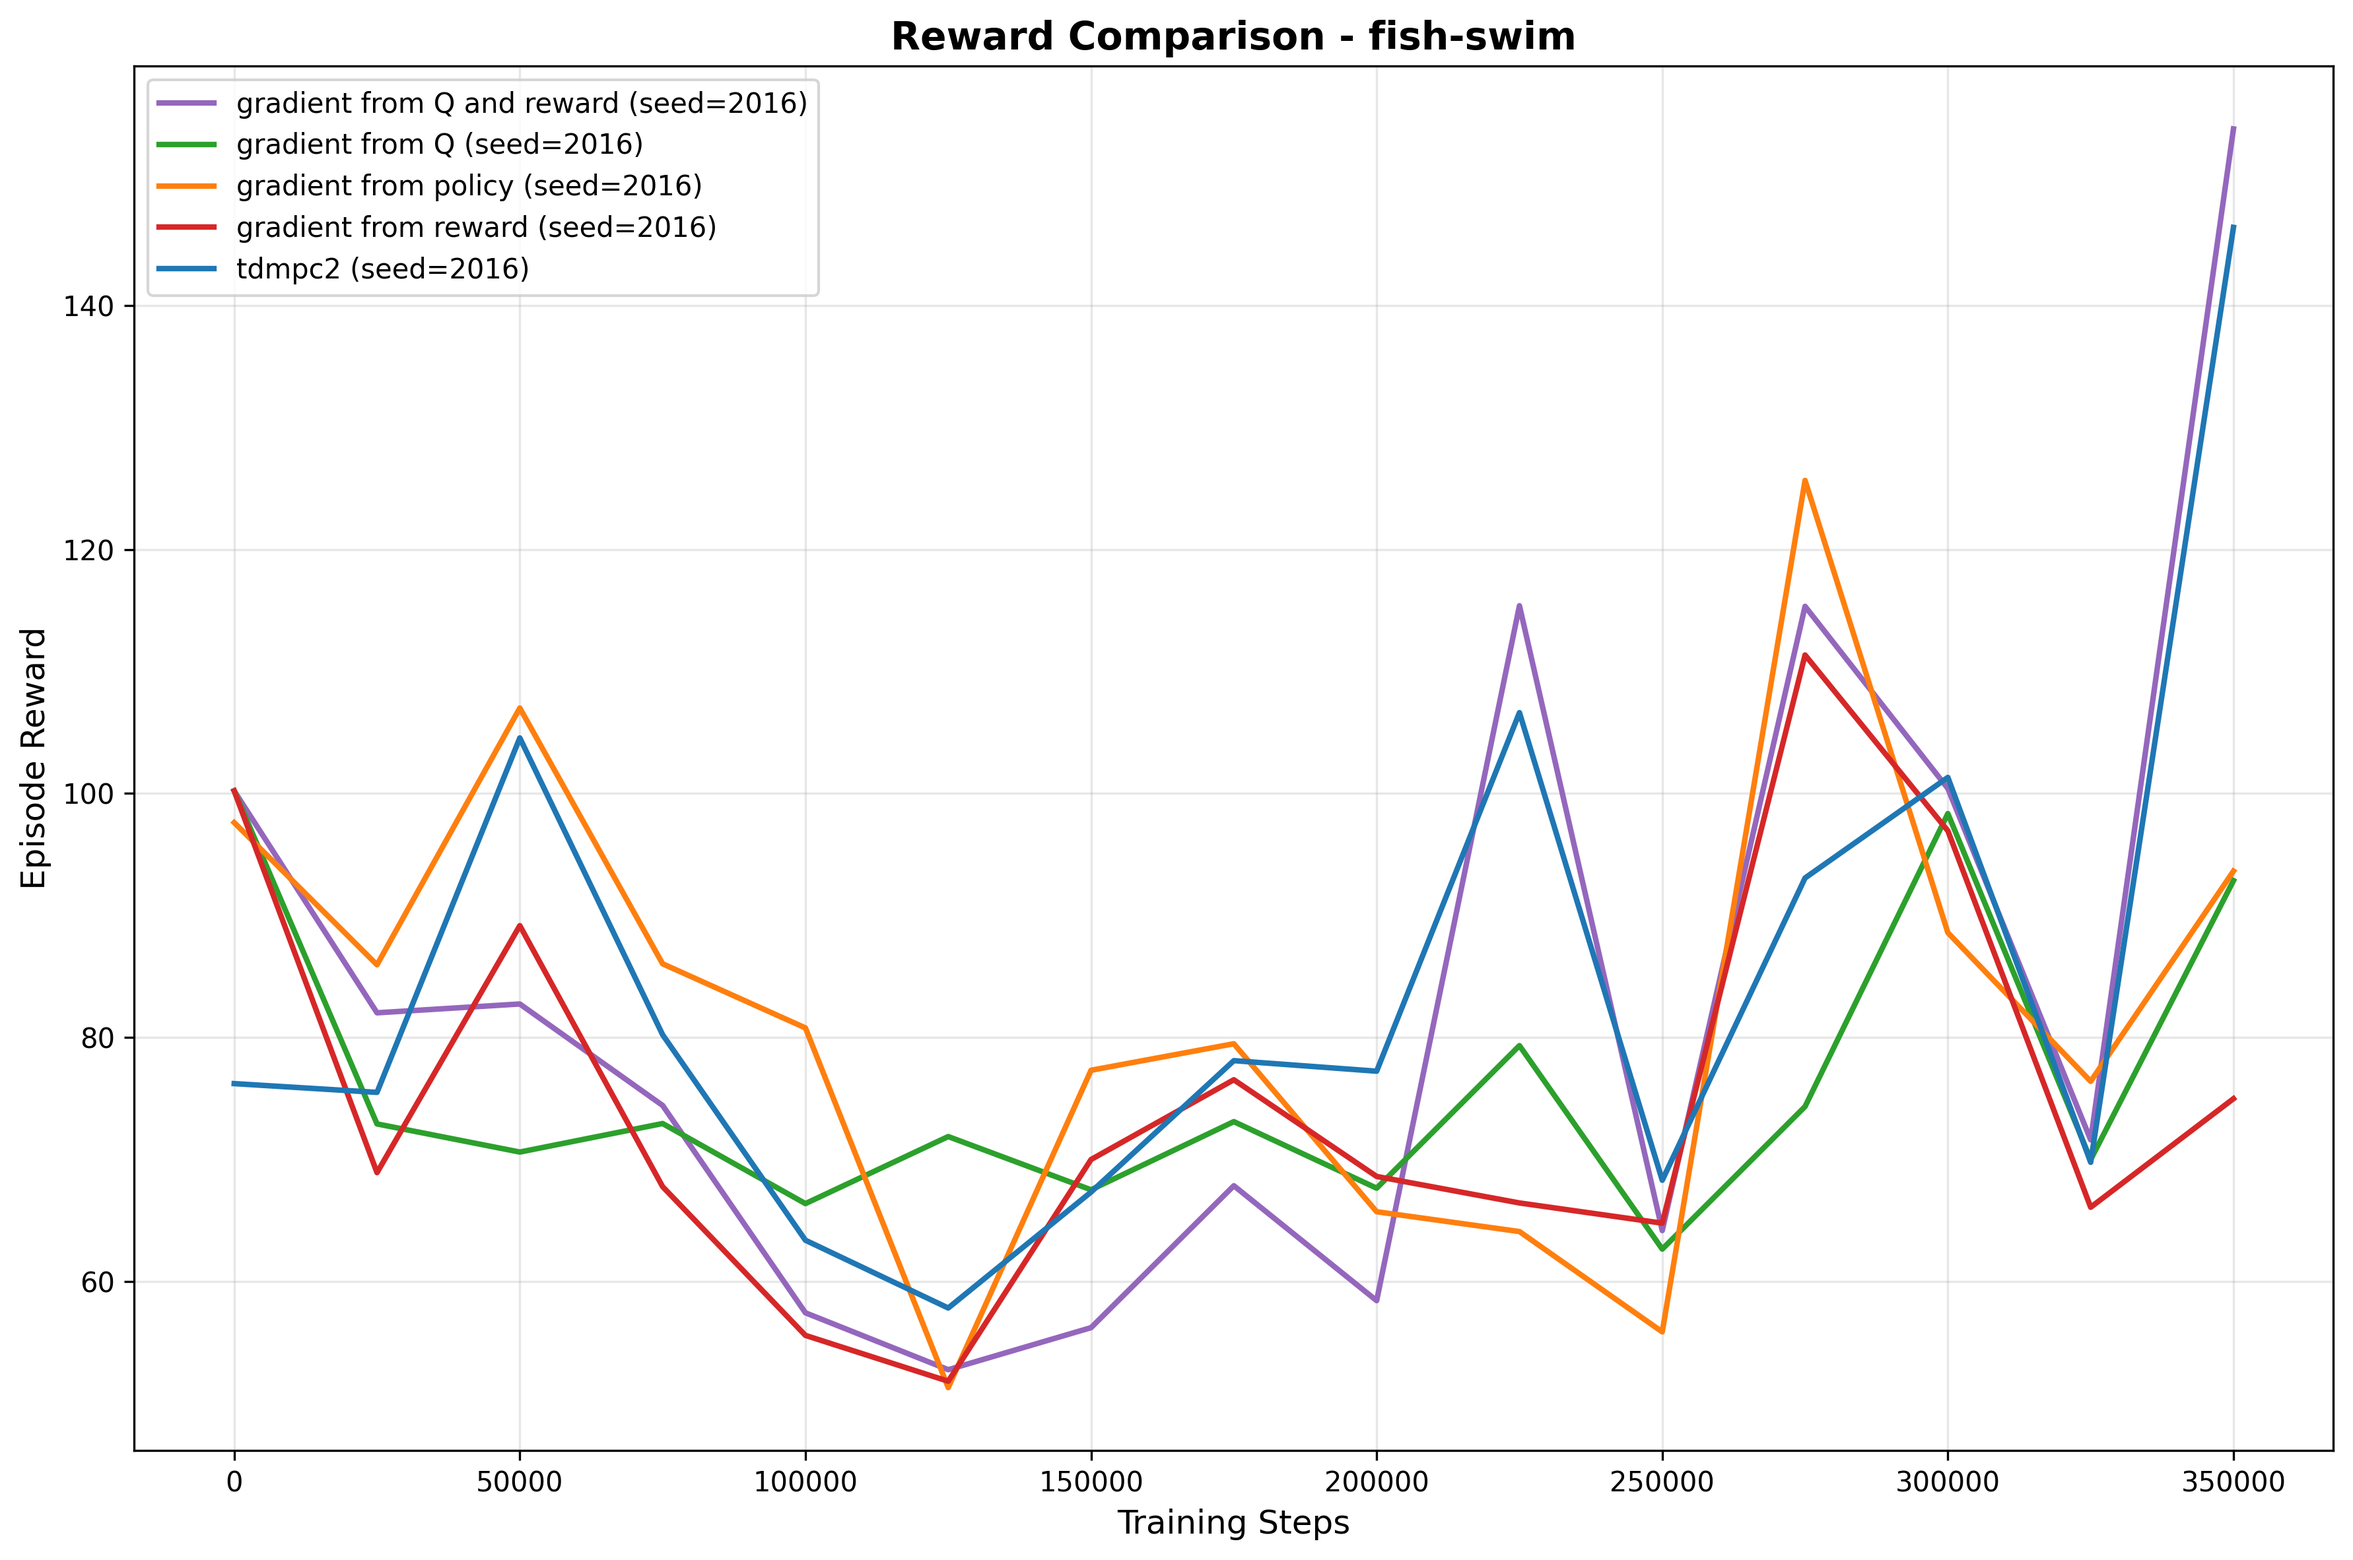
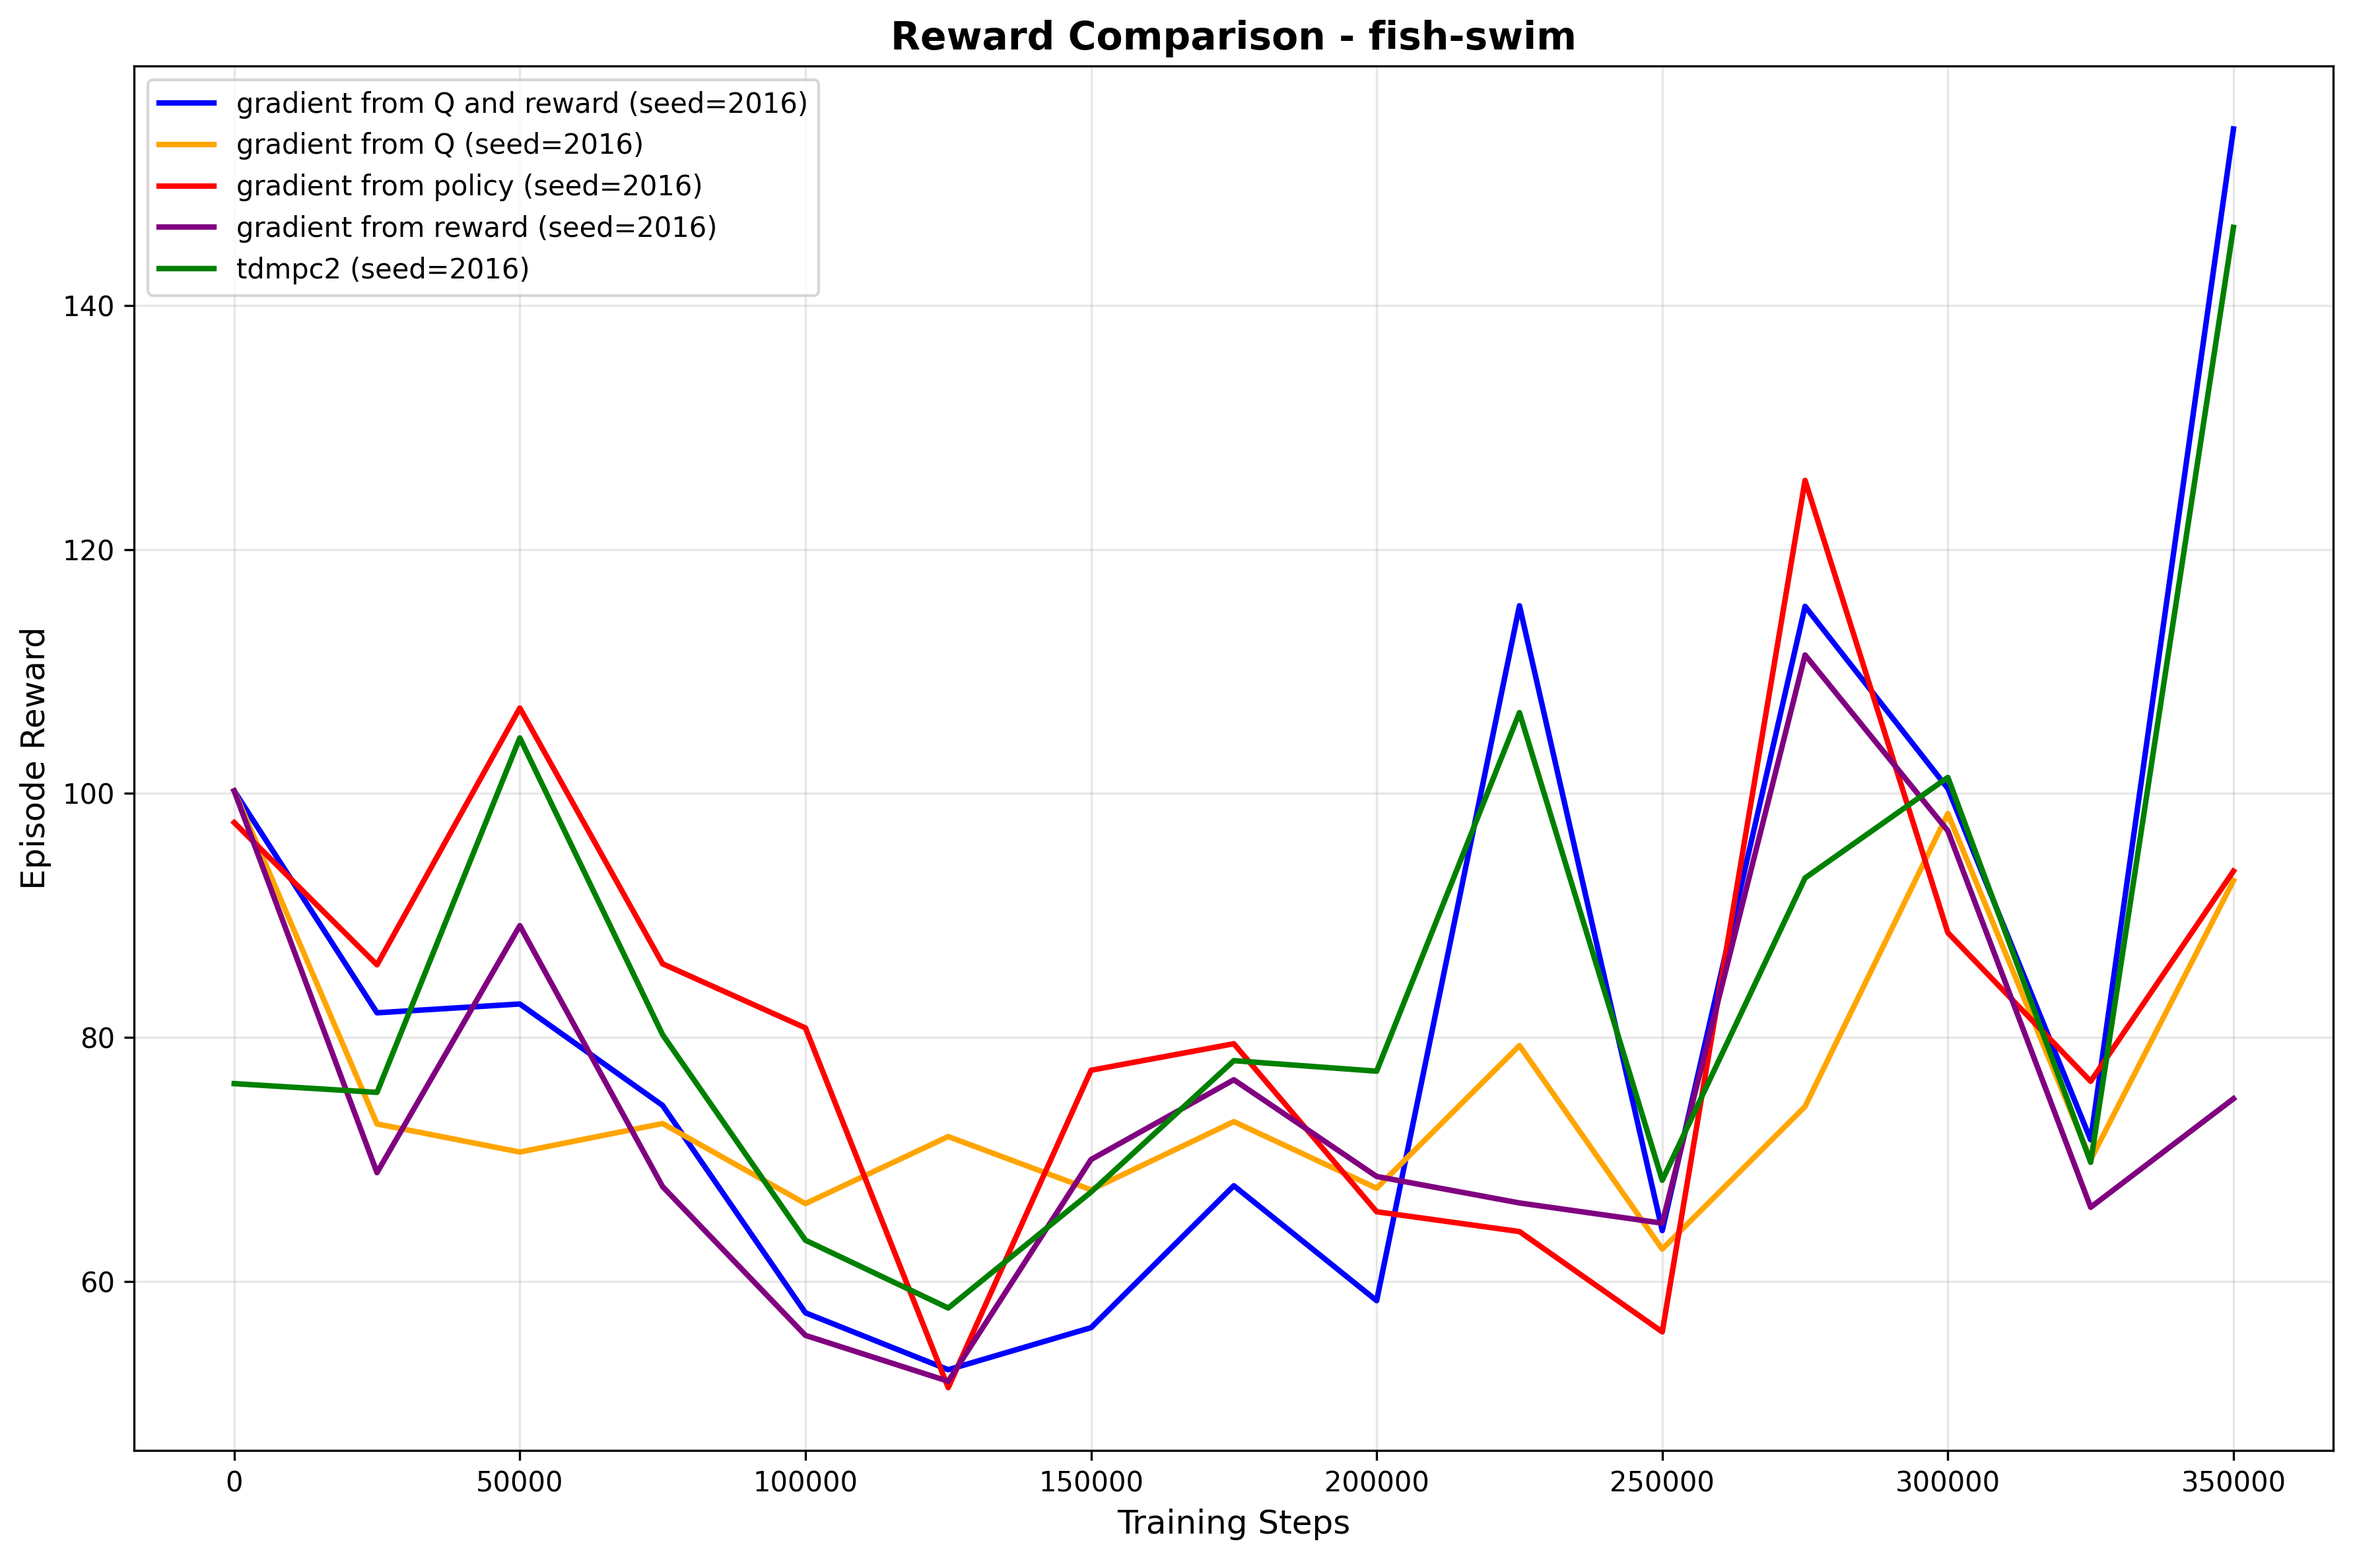
color

diff --git a/plot_reward_comparison.py b/plot_reward_comparison.py
@@ -64,6 +64,15 @@ def plot_environment_rewards(env_name, eval_files_info, output_dir="./"):
     """
     Plot reward curves for a single environment
     """
+    # Define consistent colors for each experiment type
+    color_map = {
+        "tdmpc2": "green",
+        "gradient from policy": "red", 
+        "gradient from Q": "orange",
+        "gradient from reward": "purple",
+        "gradient from Q and reward": "blue"
+    }
+    
     plt.figure(figsize=(12, 8))
     
     for file_info in eval_files_info:
@@ -79,8 +88,14 @@ def plot_environment_rewards(env_name, eval_files_info, output_dir="./"):
             # Get the proper label
             label = get_label_from_experiment_details(file_info['experiment_details'])
             
+            # Get the color for this experiment type
+            color = color_map.get(label, "black")  # Default black for unknown types
+            
             # Plot the reward curve
-            plt.plot(df['step'], df['episode_reward'], label=f"{label} (seed={file_info['seed']})", linewidth=2)
+            plt.plot(df['step'], df['episode_reward'], 
+                    label=f"{label} (seed={file_info['seed']})", 
+                    linewidth=2, 
+                    color=color)
             
         except Exception as e:
             print(f"Error processing {file_info['path']}: {e}")
